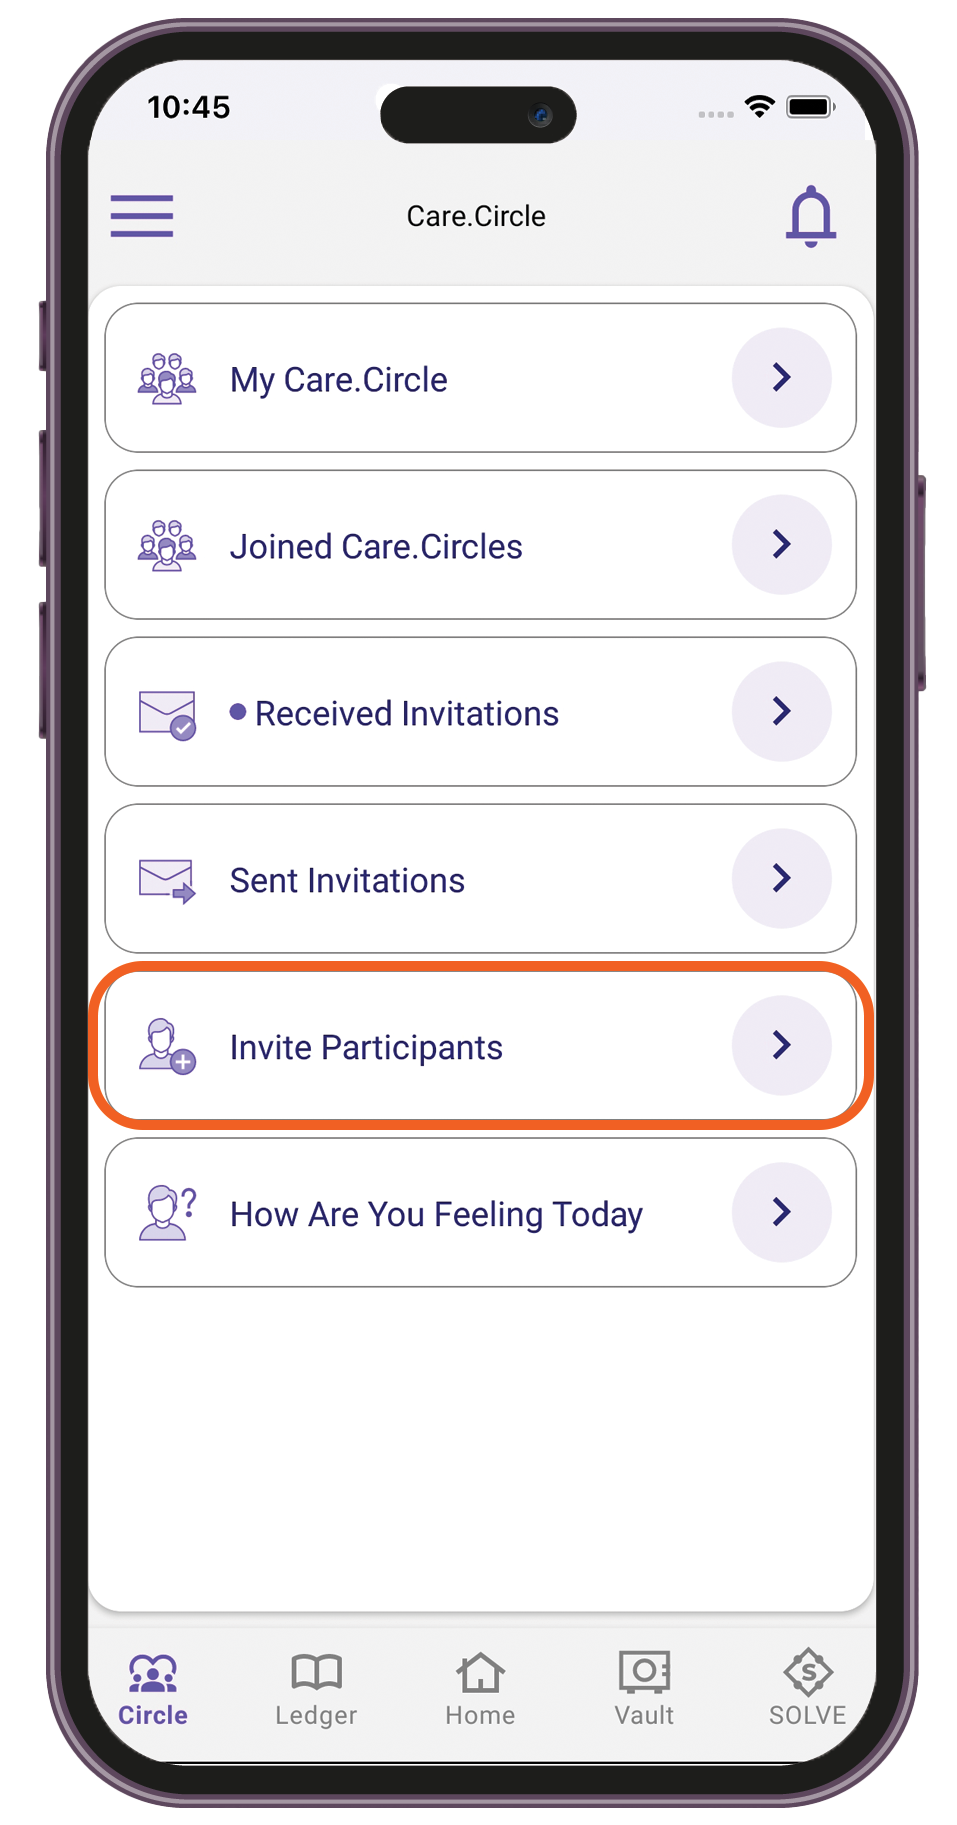
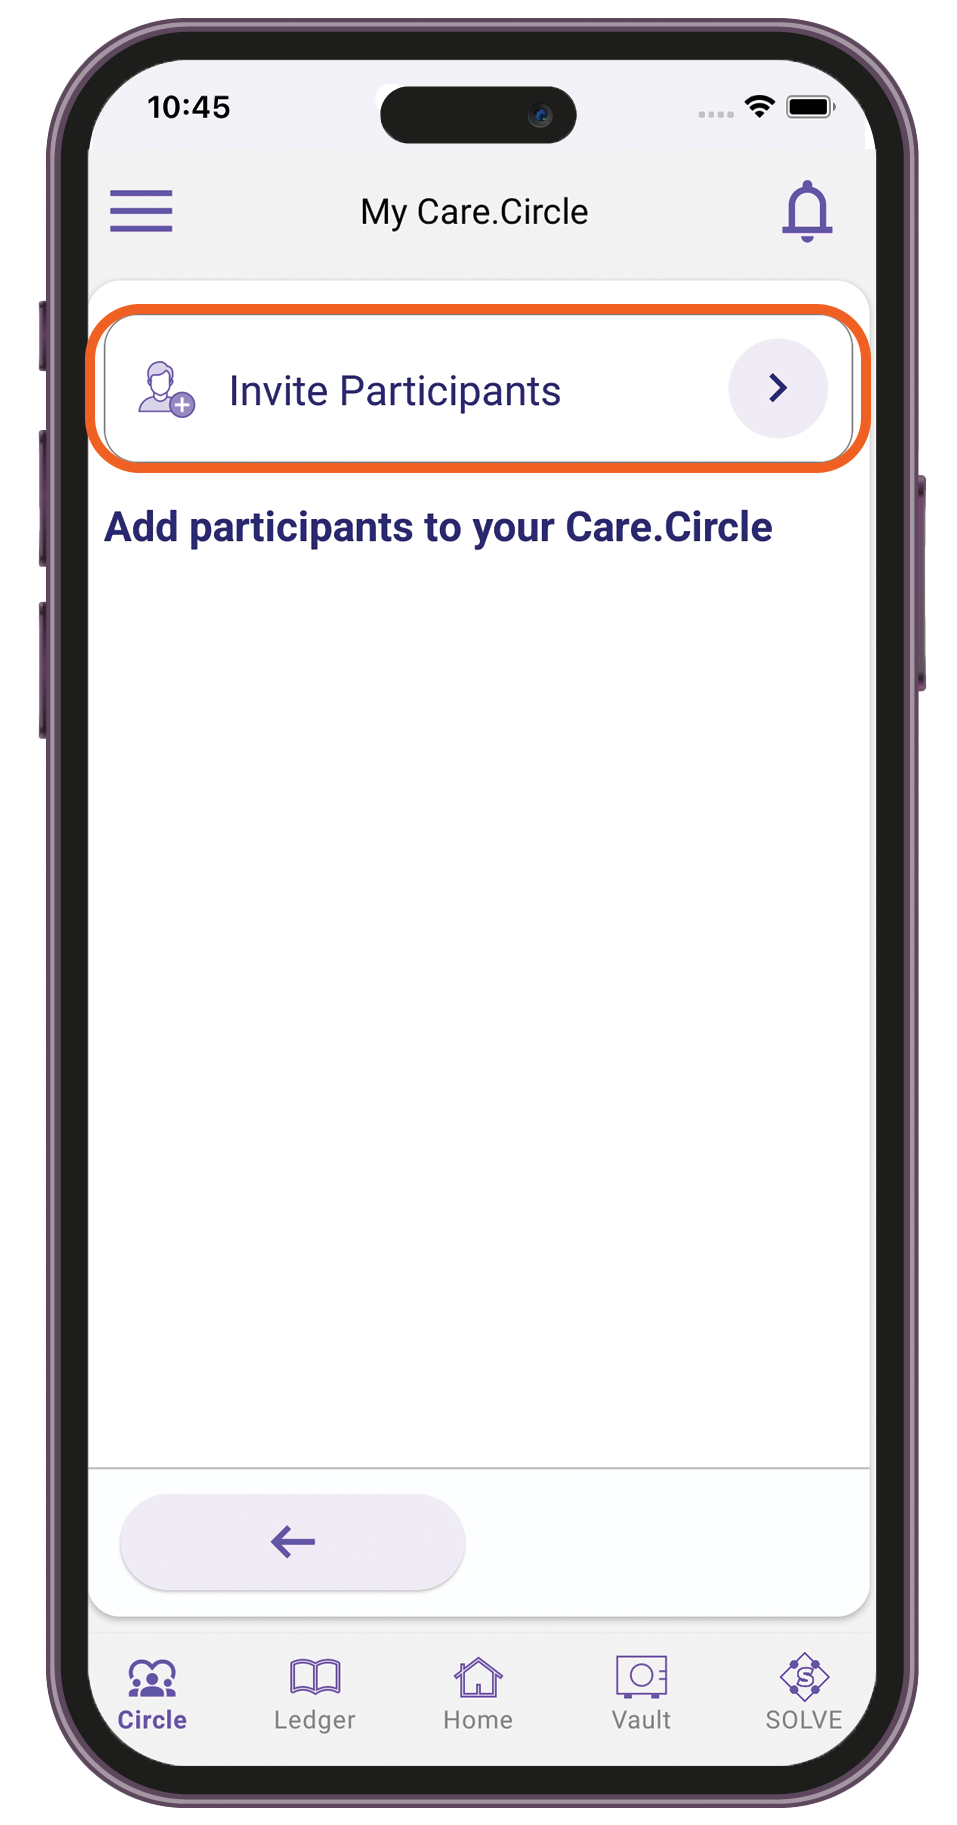
GITBOOK-166: No subject

diff --git a/care.wallet-user-manual/care.circle.md b/care.wallet-user-manual/care.circle.md
@@ -7,123 +7,61 @@
 
 <figure><img src="../.gitbook/assets/cw-bottom-menu-circle.png" alt="" width="375"><figcaption></figcaption></figure>
 
-3. Tap **Invite Participants**. You can also navigate to **My Care.Circle** **>** **Invite Participants**.
+3. Navigate to **My Care.Circle** **>** **Invite Participants**.
 
 <figure><img src="../.gitbook/assets/care-circle-invite-participants.png" alt="" width="188"><figcaption></figcaption></figure>
 
-4. Select **Enter invitation message**.
+### Add from contacts
 
-<figure><img src="../.gitbook/assets/care-circle-enter-invitation-message.png" alt="" width="188"><figcaption></figcaption></figure>
-
-5. Type a text to include in the invitation message.
-
-<figure><img src="../.gitbook/assets/care-circle-invitation-message.png" alt="" width="188"><figcaption></figcaption></figure>
-
-6. Tap **Save**.&#x20;
-
-### Using a Wallet ID to invite participants
-
-1. Sign in to your Care.Wallet app.
-2. From the bottom navigation bar, tap **Circle**.
-3. Tap **Invite Participants** **>** **Enter Wallet ID**.
-
-<figure><img src="../.gitbook/assets/care-circle-select-wallet-id.png" alt="" width="188"><figcaption></figcaption></figure>
-
-4. Enter the Wallet ID of the user you want to invite.
-
-<figure><img src="../.gitbook/assets/care-pilot-share-record-circle.png" alt="" width="188"><figcaption></figcaption></figure>
-
-5. Tap **Invite**.
-
-### Sharing the invitation link
-
-1. Sign in to your Care.Wallet app.
-2. From the bottom navigation bar, tap **Circle**.
-3. Tap **Invite Participants** **>** **Share link**.
-
-<figure><img src="../.gitbook/assets/care-circle-share-link.png" alt="" width="188"><figcaption></figcaption></figure>
-
-4. Select how you want to send the invitation link. You can share it via email or a messaging app.
-
-### Sending invite to contacts
-
-1. Sign in to your Care.Wallet app.
-2. From the bottom navigation bar, tap **Circle**.
-3. Tap **Add from contacts**.
+1. From the Invite Participants card, tap **Add from contacts**.
 
 <figure><img src="../.gitbook/assets/care-circle-add-from-contacts.png" alt="" width="188"><figcaption></figcaption></figure>
 
-4. Select one or more contacts from your mobile phone. You can use the search to filter the contacts list.
+2. Select one or more contacts from your mobile phone. You can use the search to filter the contacts list.
 
 <figure><img src="../.gitbook/assets/care-circle-add-contacts.png" alt="" width="188"><figcaption></figcaption></figure>
 
-5. Tap **Invite**.
+3. Send the invite.
 
-## Sending "How Are You Feeling Today" cards
+### Share link
 
-Send mood cards and survey questions to your Care.Circle members to check in on how they are feeling today.
+1. From the Invite Participants card, tap **Share link**.
 
-1. Sign in to your Care.Wallet app.
-2. From the bottom navigation bar, tap **Circle**.
-3. Tap **How Are You Feeling Today**.
+<figure><img src="../.gitbook/assets/care-circle-share-link.png" alt="" width="188"><figcaption></figcaption></figure>
 
-<figure><img src="../.gitbook/assets/care-circle-hayft.png" alt="" width="188"><figcaption></figcaption></figure>
+2. Select how you want to send the invitation link. You can share it via email or a messaging app.
+3. Send the invite.
 
-4.  Select either of the following:
+### Enter Wallet ID
 
-    * Mood — Select at least two mood cards.
+1. From the Invite Participants card, tap **Enter Wallet ID**.
 
+<figure><img src="../.gitbook/assets/care-circle-enter-wallet-id.png" alt="" width="188"><figcaption></figcaption></figure>
 
+2. Enter the Wallet ID of the user you want to invite.
 
-    <div>
+<figure><img src="../.gitbook/assets/care-circle-enter-wallet-id (1).png" alt="" width="188"><figcaption></figcaption></figure>
 
-    <figure><img src="../.gitbook/assets/care-circle-hayft-mood.png" alt="" width="188"><figcaption></figcaption></figure>
+3. Send the invite.
 
-     
-
-    <figure><img src="../.gitbook/assets/care-circle-mood-cards.png" alt="" width="188"><figcaption></figcaption></figure>
-
-    </div>
-
-
-
-    * Survey — Select one or more questions.
-
-
-
-    <div>
-
-    <figure><img src="../.gitbook/assets/care-circle-hayft-survey.png" alt="" width="188"><figcaption></figcaption></figure>
-
-     
-
-    <figure><img src="../.gitbook/assets/care-circle-survey-questions.png" alt="" width="188"><figcaption></figcaption></figure>
-
-    </div>
-5. Select a recipient from your Care.Circle.
-
-<figure><img src="../.gitbook/assets/care-circle-send-card.png" alt="" width="188"><figcaption></figcaption></figure>
-
-6. Tap **Send**.
-
-## Responding to received cards
+## Assigning a nickname
 
 1. Sign in to your Care.Wallet app.
 2. From the bottom navigation bar, tap **Circle**.
-3. Tap **How Are You Feeling Today > Received Cards**.
+3. Navigate to **My Care.Circle** **>** **Invite Participants**.
+4. Select the participant.
+5. Tap **Assign nickname**.
 
-<figure><img src="../.gitbook/assets/care-circle-received-cards.png" alt="" width="188"><figcaption></figcaption></figure>
+<figure><img src="../.gitbook/assets/care-circle-assign-nickname.png" alt="" width="188"><figcaption></figcaption></figure>
 
-4. Select a mood card or answer the survey questions.
+6. Type the nickname, then save it.
 
-<div>
+## Removing participants
 
-<figure><img src="../.gitbook/assets/care-circle-received-card-mood.png" alt="" width="188"><figcaption><p>Mood</p></figcaption></figure>
+1. Sign in to your Care.Wallet app.
+2. From the bottom navigation bar, tap **Circle**.
+3. Navigate to **My Care.Circle** **>** **Invite Participants**.
+4. Select the participant.
+5. Tap **Remove from Care.Circle > Remove**.
 
- 
-
-<figure><img src="../.gitbook/assets/care-circle-received-card-survey.png" alt="" width="188"><figcaption><p>Survey</p></figcaption></figure>
-
-</div>
-
-5. Send your response.
+<figure><img src="../.gitbook/assets/care-circle-remove-from-circle.png" alt="" width="188"><figcaption></figcaption></figure>
